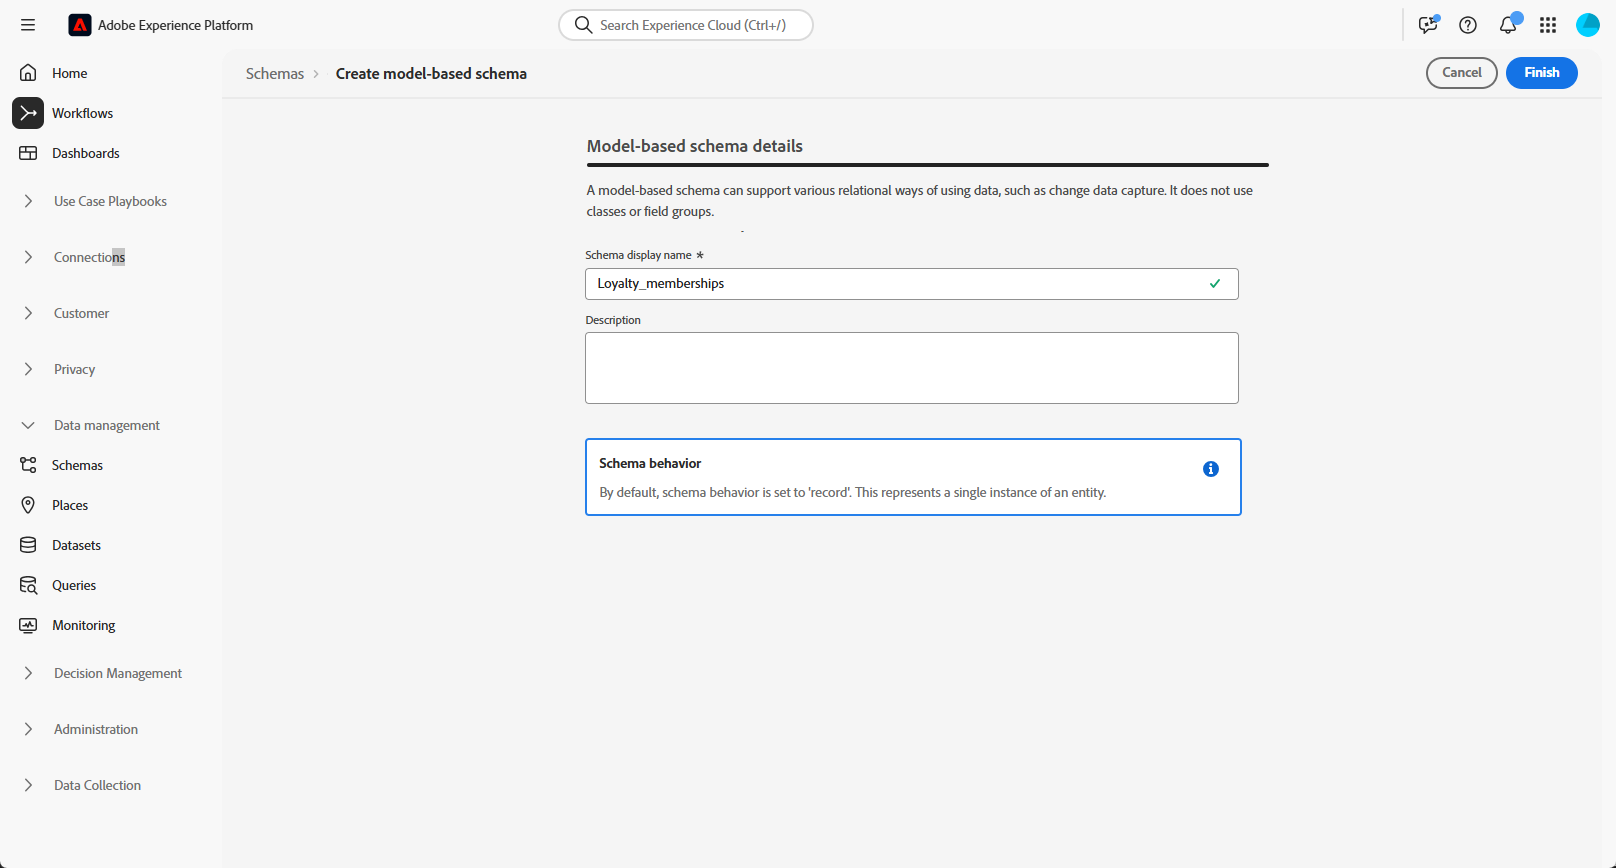
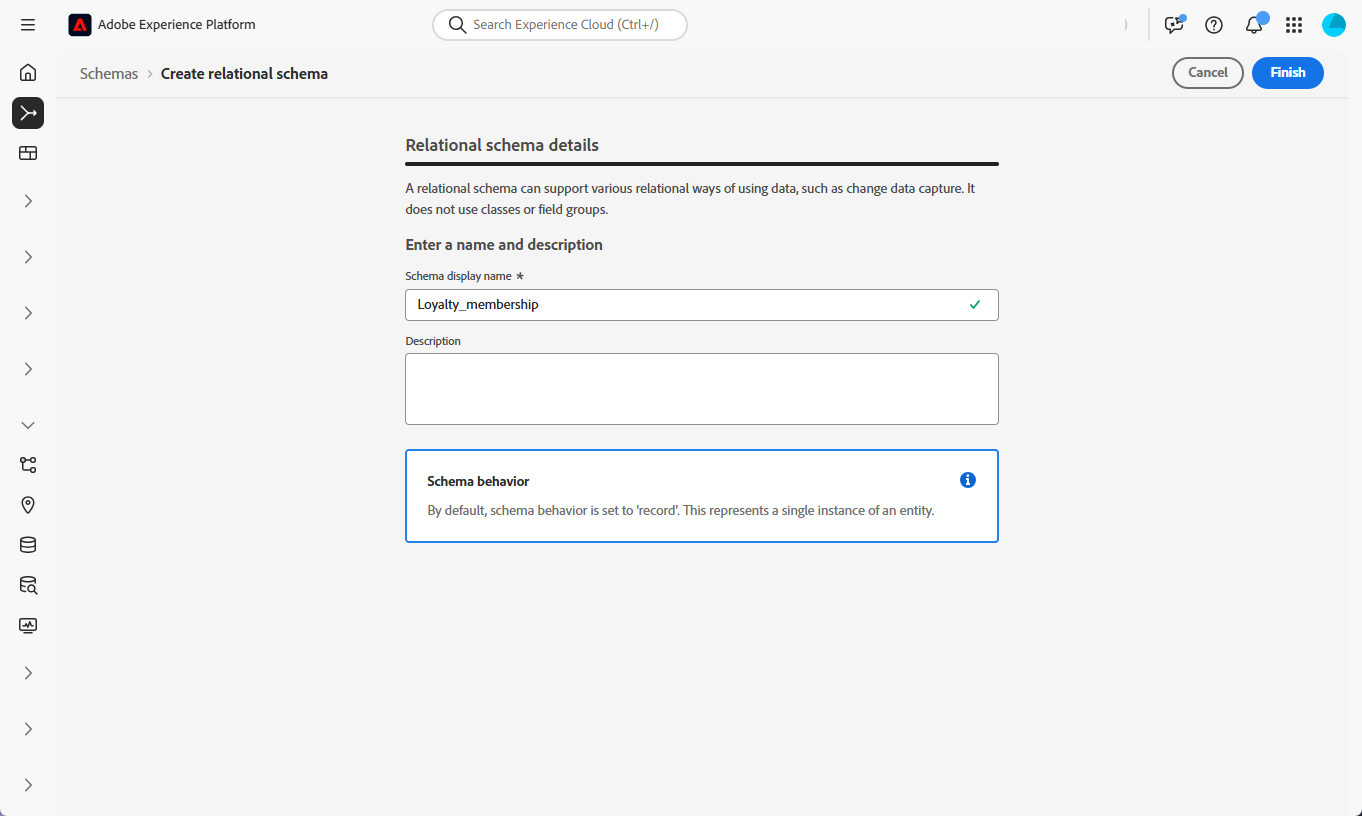
Rename model-based > relational

diff --git a/help/using/orchestrated/manual-schema.md b/help/using/orchestrated/manual-schema.md
@@ -2,17 +2,17 @@
 solution: Journey Optimizer
 product: journey optimizer
 title: Configuration steps
-description: Learn how to create model-based schemas directly through the user interface.
+description: Learn how to create relational schemas directly through the user interface.
 exl-id: 8c785431-9a00-46b8-ba54-54a10e288141
 version: Campaign Orchestration
 ---
-# Set up a manual model-based schema {#manual-schema}
+# Set up a manual relational schema {#manual-schema}
 
-Model-based schemas can be created directly through the user interface, enabling detailed configuration of attributes, primary keys, versioning fields, and relationships.  
+Relational schemas can be created directly through the user interface, enabling detailed configuration of attributes, primary keys, versioning fields, and relationships.  
 
 The following example manually defines the **Loyalty Memberships** schema to illustrate the required structure for Orchestrated campaigns.
 
-1. [Create a model-based schema manually](#schema) using the Adobe Experience Platform interface.
+1. [Create a relational schema manually](#schema) using the Adobe Experience Platform interface.
 
 1. [Add attributes](#schema-attributes) such as customer ID, membership level, and status fields.
 
@@ -22,11 +22,11 @@ The following example manually defines the **Loyalty Memberships** schema to ill
 
 1. [Ingest data](ingest-data.md) into your dataset from supported sources.
 
-➡ [Learn more about manual model-based schemas in Adobe Experience Platform documentation](https://experienceleague.adobe.com/en/docs/experience-platform/xdm/ui/resources/schemas#create-manually)
+➡ [Learn more about manual relational schemas in Adobe Experience Platform documentation](https://experienceleague.adobe.com/en/docs/experience-platform/xdm/ui/resources/schemas#create-manually)
 
 ## Create your schema {#schema}
 
-Start by creating a new model-based schema manually in Adobe Experience Platform. This process allows you to define the schema structure from scratch, including its name and behavior.
+Start by creating a new relational schema manually in Adobe Experience Platform. This process allows you to define the schema structure from scratch, including its name and behavior.
 
 1. Log in to Adobe Experience Platform.
 
@@ -34,7 +34,7 @@ Start by creating a new model-based schema manually in Adobe Experience Platform
 
 1. Click **[!UICONTROL Create Schema]**.
 
-1. Select **[!UICONTROL Model-based]** as your **Schema type**.
+1. Select **[!UICONTROL Relational]** as your **Schema type**.
 
     ![](assets/admin_schema_1.png){zoomable="yes"}
 
@@ -54,7 +54,7 @@ Next, add attributes to define the structure of your schema. These fields repres
 
 Any schema used for targeting must include at least one identity field of type `String` with an associated identity namespace. This ensures compatibility with Adobe Journey Optimizer's targeting and identity resolution capabilities.
 
-+++The following features are supported when creating model-based schemas in Adobe Experience Platform
++++The following features are supported when creating relational schemas in Adobe Experience Platform
 
 * **ENUM**  
   ENUM fields are supported in both DDL-based and manual schema creation, allowing you to define attributes with a fixed set of allowed values.
@@ -63,7 +63,7 @@ Any schema used for targeting must include at least one identity field of type `
   Labeling is supported at the schema field level to enforce data governance policies such as access control and usage restrictions. For more details, refer to [Adobe Experience Platform documentation](https://experienceleague.adobe.com/docs/experience-platform/xdm/home.html).
 
 * **Composite Key**  
-  Composite primary keys are supported in model-based schema definitions, enabling the use of multiple fields together to uniquely identify records.
+  Composite primary keys are supported in relational schema definitions, enabling the use of multiple fields together to uniquely identify records.
 
 +++
 

diff --git a/help/using/orchestrated/file-upload-schema.md b/help/using/orchestrated/file-upload-schema.md
@@ -2,28 +2,28 @@
 solution: Journey Optimizer
 product: journey optimizer
 title: Configuration steps
-description: Learn how to create a model-based schema within Adobe Experience Platform by uploading a DDL
+description: Learn how to create a relational schema within Adobe Experience Platform by uploading a DDL
 exl-id: 88eb1438-0fe5-4a19-bfb6-2968a427e9e8
 version: Campaign Orchestration
 ---
 
-# Create model-based schemas using a DDL file {#file-upload-schema}
+# Create relational schemas using a DDL file {#file-upload-schema}
 
-Define the model-based data model required for Orchestrated campaigns by creating schemas such as **Loyalty Memberships**, **Loyalty Transactions**, and **Loyalty Rewards**. Each schema must include a primary key, a versioning attribute, and appropriate relationships to reference entities such as **Recipients** or **Brands**. 
+Define the relational data model required for Orchestrated campaigns by creating schemas such as **Loyalty Memberships**, **Loyalty Transactions**, and **Loyalty Rewards**. Each schema must include a primary key, a versioning attribute, and appropriate relationships to reference entities such as **Recipients** or **Brands**. 
 
 Schemas can be created manually through the interface or imported in bulk using a DDL file.
 
-This section provides step-by-step guidance on how to create a model-based schema within Adobe Experience Platform by uploading a DDL (Data Definition Language) file. Using a DDL file allows you to define the structure of your data model in advance, including tables, attributes, keys, and relationships. 
+This section provides step-by-step guidance on how to create a relational schema within Adobe Experience Platform by uploading a DDL (Data Definition Language) file. Using a DDL file allows you to define the structure of your data model in advance, including tables, attributes, keys, and relationships. 
 
-1. [Upload a DDL file](#ddl-upload) to create model-based schemas and define their structure.
+1. [Upload a DDL file](#ddl-upload) to create relational schemas and define their structure.
 
 1. [Define relationships](#relationships) between tables in your data model.
 
-1. [Link schemas](#link-schema) to connect your model-based data with existing profile entities such as Recipients or Brands.
+1. [Link schemas](#link-schema) to connect your relational data with existing profile entities such as Recipients or Brands.
 
 1. [Ingest data](ingest-data.md) into your dataset from supported sources.
 
-➡ [Learn more about model-based schemas in Adobe Experience Platform documentation](https://experienceleague.adobe.com/en/docs/experience-platform/xdm/schema/relational)
+➡ [Learn more about relational schemas in Adobe Experience Platform documentation](https://experienceleague.adobe.com/en/docs/experience-platform/xdm/schema/relational)
 
 ## Upload a DDL file{#ddl-upload}
 
@@ -31,7 +31,7 @@ By uploading a DDL file, you can define the structure of your data model in adva
 
 Excel-based schema file uploads are supported. Download the [provided template](assets/template.zip) to easily prepare your schema definitions.
 
-+++The following features are supported when creating model-based schemas in Adobe Experience Platform
++++The following features are supported when creating relational schemas in Adobe Experience Platform
 
 * **ENUM**  
   ENUM fields are supported in both DDL-based and manual schema creation, allowing you to define attributes with a fixed set of allowed values.
@@ -60,7 +60,7 @@ Excel-based schema file uploads are supported. Download the [provided template](
 
 1. Click **Create Schema**.
 
-1. Select **[!UICONTROL Model-based]** as your **Schema type**.
+1. Select **[!UICONTROL Relational]** as your **Schema type**.
 
     ![](assets/admin_schema_1.png)
 

diff --git a/help/using/orchestrated/gs-schemas.md b/help/using/orchestrated/gs-schemas.md
@@ -2,14 +2,14 @@
 solution: Journey Optimizer
 product: journey optimizer
 title: Configuration steps
-description: Learn how to create a model-based schema within Adobe Experience Platform by uploading a DDL
+description: Learn how to create a relational schema within Adobe Experience Platform by uploading a DDL
 exl-id: 327597f6-8a53-42dc-966a-baae49b58bb3
 version: Campaign Orchestration
 ---
 
-# Get started with model-based Schemas and Datasets{#gs-schemas}
+# Get started with relational Schemas and Datasets{#gs-schemas}
 
-This guide walks you through the process of creating a model-based schema, configuring a dataset for Orchestrated campaigns and ingesting data.
+This guide walks you through the process of creating a relational schema, configuring a dataset for Orchestrated campaigns and ingesting data.
 
 ![schema](assets/do-not-localize/schema_admin.png){zoomable="yes"}
 
@@ -29,13 +29,13 @@ It describes:
 
 A data model is logical and conceptual, not tied to a physical implementation in Orchestrated Campaign
 
-In a **model-based data model**, data is organized into tables relating to other tables.
+In a **relational data model**, data is organized into tables relating to other tables.
 
 * Each table has rows(records) and columns(attributes)
 * Every table has a primary key to uniquely identify rows
 * Relationships between tables are expressed using foreign keys
 
-A **model-based schema** is the formal definition of the model-based data model.
+A **relational schema** is the formal definition of the relational data model.
 
 It specifies:
 
@@ -44,15 +44,15 @@ It specifies:
 * The constraints
 * The relationships across tables
 
-Organizing schemas or tables in a model-based data model is about structuring your data into multiple tables. Ensure each table stores one type of entity/schemas
+Organizing schemas or tables in a relational data model is about structuring your data into multiple tables. Ensure each table stores one type of entity/schemas
 
 ➡ [Learn more about schemas in Adobe Experience Platform documentation](https://experienceleague.adobe.com/en/docs/experience-platform/xdm/ui/resources/schemas#create-model-based-schema)
 
 ## Implementation steps {#implementation}
 
-To ingest data and create model-based schema, follow these steps:
+To ingest data and create relational schema, follow these steps:
 
-1. Create [model-based schema manually](manual-schema.md) or [using a DDL file](file-upload-schema.md)
+1. Create [relational schema manually](manual-schema.md) or [using a DDL file](file-upload-schema.md)
 
     Define the structure of your data model, including tables, attributes, and relationships. Choose to build the schema manually in the user interface or upload a DDL file for faster setup.
 

diff --git a/help/using/data/get-started-schemas.md b/help/using/data/get-started-schemas.md
@@ -13,7 +13,7 @@ exl-id: c2a8df2e-ff94-4f9a-a53e-bbf9f663cc81
 
 [!DNL Adobe Journey Optimizer] relies on **Adobe Experience Platform schemas** to describe the structure of data in a consistent and reusable way. A schema provides an abstract definition of a real-world object (such as a person) and outlines what data should be included in each instance of that object (such as name, birthday, and so on). When data is ingested into Experience Platform, it is always structured according to an **XDM schema**. 
 
-## Standard & model-based schemas
+## Standard & relational schemas
 
 There are two types of schemas in Adobe Experience Platform:
 
@@ -28,22 +28,22 @@ There are two types of schemas in Adobe Experience Platform:
 
     ➡ [Learn how to create and configure a standard schema in this video](#video-schema) (video)
 
-* **Model-based schemas** are flat, non-hierarchical schemas that do not use classes or field groups. They are used to capture record data for relational entities and are primarily used in [!DNL Journey Optimizer] **Orchestrated campaigns**.
+* **Relational schemas** are flat, non-hierarchical schemas that do not use classes or field groups. They are used to capture record data for relational entities and are primarily used in [!DNL Journey Optimizer] **Orchestrated campaigns**.
 
     Examples of relational entities include:  
     * Bookings, contracts, or subscriptions  
     * Products or catalogs  
     * Stores, locations, or partners  
 
-    With model-based schemas, you can send one message per entity (e.g., per booking, per subscription), create segments based on entity attributes (e.g., product category, store location), and improve addressability by reaching all contacts linked to an entity.  
+    With relational schemas, you can send one message per entity (e.g., per booking, per subscription), create segments based on entity attributes (e.g., product category, store location), and improve addressability by reaching all contacts linked to an entity.  
 
-    How model-based schemas work:
+    How relational schemas work:
 
     1. **Create schemas manually or import via DDL**
     1. **Link schemas** to define relationships between entities and people (e.g., loyalty transactions linked to members, rewards linked to brands).  
     1. **Ingest data** into your dataset from supported sources.
 
-    ➡ [Learn how to manage model-based schemas and datasets](../orchestrated/gs-schemas.md)
+    ➡ [Learn how to manage relational schemas and datasets](../orchestrated/gs-schemas.md)
     ➡ [Get started with Orchestrated campaigns](../orchestrated/gs-schemas.md)
 
 ## How-to video{#video-schema}

diff --git a/help/using/rn/release-notes-2025.md b/help/using/rn/release-notes-2025.md
@@ -156,8 +156,8 @@ This page lists all the features and improvements for [!DNL Journey Optimizer] r
 * **mTLS Support for SMS Channel**
   When setting up a custom SMS provider, you now have the option to enable mutual TLS (mTLS) authentication, which requires both the client and the server to confirm each other's identities before a secure connection is established. [Read more](../sms/sms-configuration-custom.md) - Availability date: Sept 23, 2025 
 
-* **Model-based Schemas**  
-  Model-based schemas can now be used by to support your relational modeling needs in Orchestrated campaigns. [Read more](../orchestrated/gs-schemas.md) - Availability date: Sept 23,2025 
+* **Relational Schemas**  
+Relational schemas can now be used by to support your relational modeling needs in Orchestrated campaigns. [Read more](../orchestrated/gs-schemas.md) - Availability date: Sept 23,2025 
 
 * **Dataset lookup support in journeys**  
   A new activity in journeys, **Dataset lookup**, allows you to dynamically retrieve data from Adobe Experience Platform record datasets during runtime. By leveraging this capability, you can access data that may not reside in the profile or event payload, ensuring your customer interactions are both relevant and timely. [Read more](../building-journeys/dataset-lookup.md) - Availability date: Sept 23,2025 

diff --git a/help/using/orchestrated/ingest-data.md b/help/using/orchestrated/ingest-data.md
@@ -61,7 +61,7 @@ The following Dources are supported for use with Orchestrated campaigns:
   </tbody>
 </table>
 
-## Guidelines for model-based Schema data hygiene {#cdc}
+## Guidelines for relational Schema data hygiene {#cdc}
 
 For datasets enabled with **[!UICONTROL Change data capture]**, all data changes including deletions, are automatically mirrored from the source system into Adobe Experience Platform.
 
@@ -99,9 +99,9 @@ This example demonstrates how to configure a data flow that ingests structured d
 
     ![](assets/S3_config_1.png)
 
-1. From the **[!UICONTROL Dataset details]** page, check **[!UICONTROL Enable Change data capture]** to display only datasets that are mapped to model-based schemas and include both a primary key and a version descriptor. 
+1. From the **[!UICONTROL Dataset details]** page, check **[!UICONTROL Enable Change data capture]** to display only datasets that are mapped to relational schemas and include both a primary key and a version descriptor. 
 
-    [Learn more on guidelines for model-based Schemas data hygiene](#cdc)
+    [Learn more on guidelines for relational Schemas data hygiene](#cdc)
 
     >[!IMPORTANT]
     >

diff --git a/help/using/orchestrated/guardrails.md b/help/using/orchestrated/guardrails.md
@@ -27,7 +27,7 @@ You will find below guardrails and limitations when using Orchestrated campaigns
 
 * The average number of attributes per schema **should not exceed 50 columns** to maintain manageability and performance.
 
-* Model-based schemas cannot be enabled for Adobe Experience Platform **Profiles**. Only Standard XDM schemas are supported for Adobe Experience Platform **Profiles**. Model-based schemas can be enabled for Orchestrated Campaigns or Action Campaigns. [Learn more](https://experienceleague.adobe.com/en/docs/experience-platform/catalog/datasets/user-guide#enable-profile) 
+* Relational schemas cannot be enabled for Adobe Experience Platform **Profiles**. Only Standard XDM schemas are supported for Adobe Experience Platform **Profiles**. Relational schemas can be enabled for Orchestrated Campaigns or Action Campaigns. [Learn more](https://experienceleague.adobe.com/en/docs/experience-platform/catalog/datasets/user-guide#enable-profile) 
 
 ### Data Ingestion
 

diff --git a/help/TOC.md b/help/TOC.md
@@ -155,8 +155,8 @@ solution: Journey Optimizer
     + [FAQ](using/orchestrated/orchestrated-campaigns-faq.md)
     + Data configuration {#data-configuration}
       + [Data configuration](/help/rp_landing_pages/data-configuration-landing-page.md)
-      + Manage model-based Schemas and Datasets {#schemas-datasets}
-        + [Manage model-based Schemas and Datasets](/help/rp_landing_pages/schemas-datasets-landing-page.md)
+      + Manage relational Schemas and Datasets {#schemas-datasets}
+        + [Manage relational Schemas and Datasets](/help/rp_landing_pages/schemas-datasets-landing-page.md)
         + [Get started with schemas and datasets](using/orchestrated/gs-schemas.md)
         + [Manual schema](using/orchestrated/manual-schema.md)
         + [File upload schema](using/orchestrated/file-upload-schema.md)

diff --git a/help/using/orchestrated/orchestrated-campaigns-faq.md b/help/using/orchestrated/orchestrated-campaigns-faq.md
@@ -241,7 +241,7 @@ In Campaign Orchestration, we refer to ad-hoc segmentation as 'Live segmentation
 
 +++ Does Campaign Orchestration only access data loaded via batch, or can it also query real-time updated tables (such as Analytics data)?
 
-Journey Optimizer Campaign Orchestration can build ad-hoc queries on top of model-based Schemas. Model-based Schemas support Batch Sources only for now. In addition, it supports Read audience activities from any type of Adobe Experience Platform Audience.
+Journey Optimizer Campaign Orchestration can build ad-hoc queries on top of relational Schemas. Relational Schemas support Batch Sources only for now. In addition, it supports Read audience activities from any type of Adobe Experience Platform Audience.
 
 **Learn more**
 

diff --git a/help/rp_landing_pages/orchestrated-campaigns-landing-page.md b/help/rp_landing_pages/orchestrated-campaigns-landing-page.md
@@ -38,7 +38,7 @@ Understand the constraints and limitations to consider when using Orchestrated c
 
 Data Configuration for Orchestrated Campaigns
 
-Configure model-based schemas, datasets, and channels to ensure data readiness for Orchestrated campaigns.
+Configure relational schemas, datasets, and channels to ensure data readiness for Orchestrated campaigns.
 
 [Explore data configuration](data-configuration-landing-page.md)
 :::
